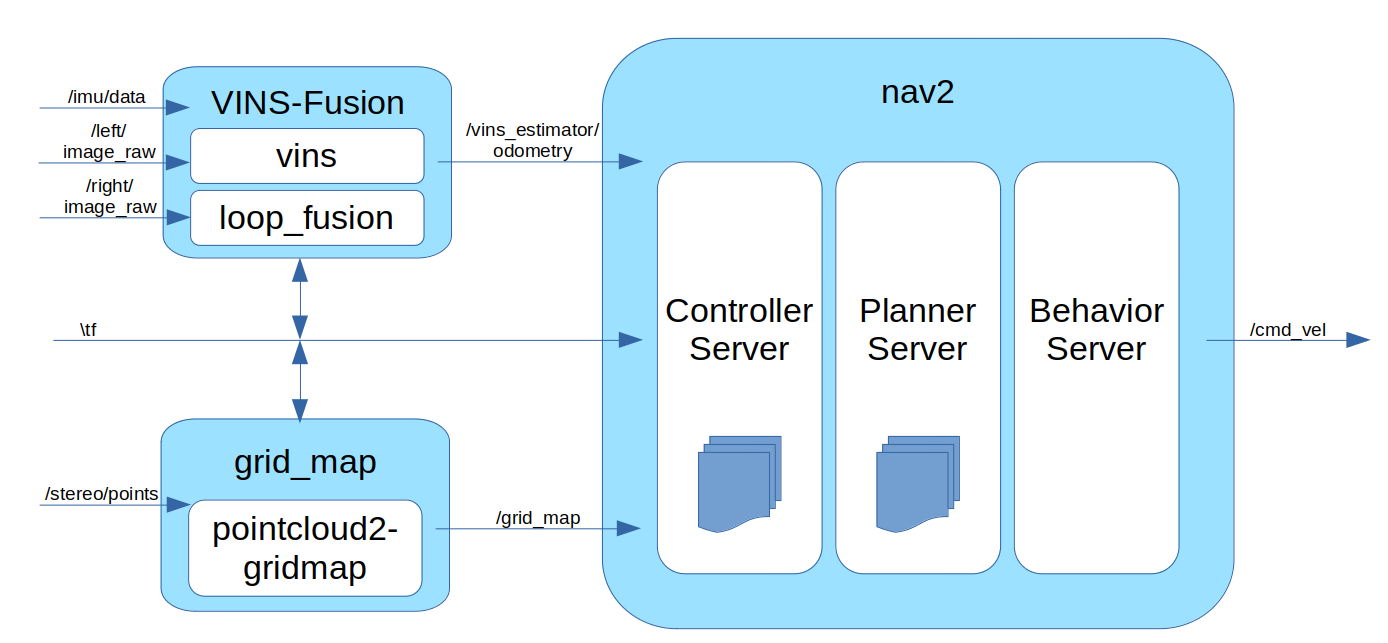
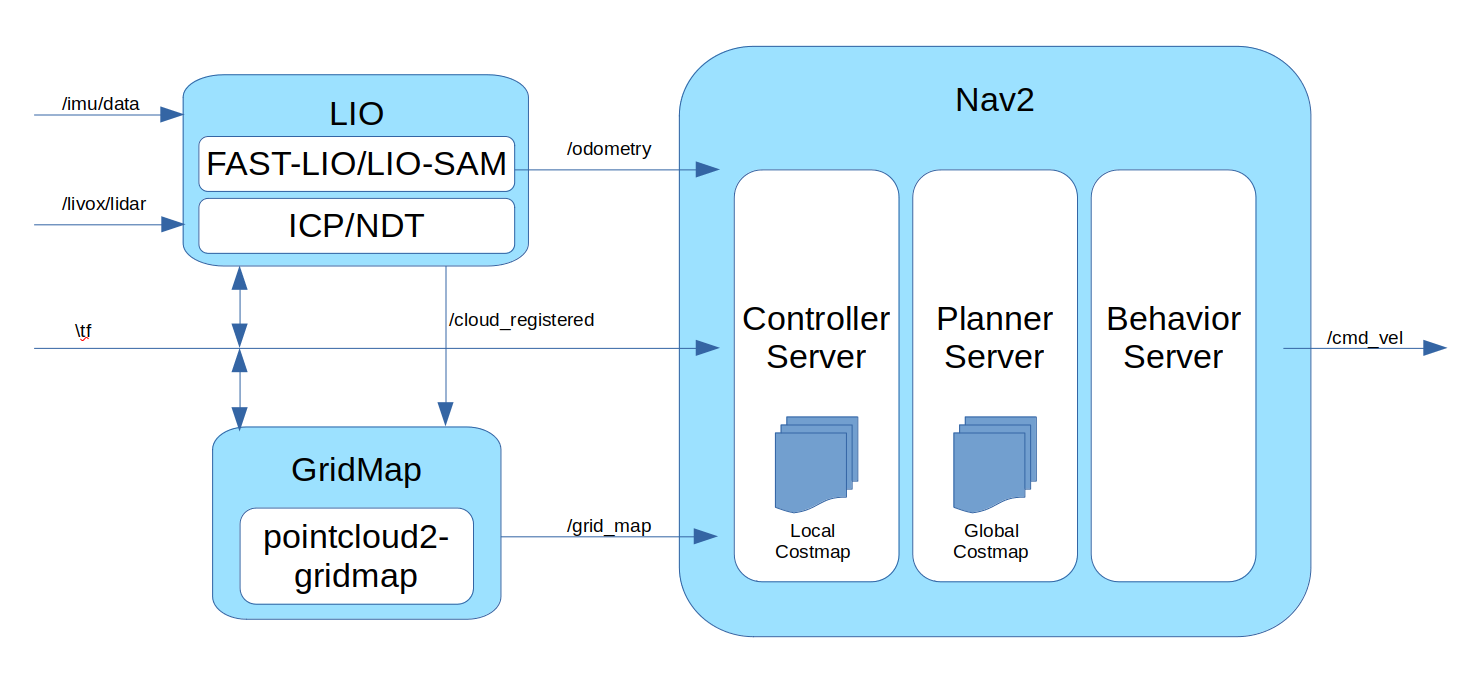
Updated README.

Changed region(s): [[0.031, 0.0311, 0.9914, 0.9953], [0.6196, 0.1244, 0.7125, 0.1866]]

diff --git a/README.md b/README.md
@@ -4,5 +4,6 @@
 ## 作者: 顾昊
 ## 1. 简介
 该模块为哨兵导航模块，负责进行3维点云至2.5D转换,激光里程计(LIO),重定位，路径规划，让哨兵在比赛场地内可以进行自身的定位与路径规划.
+该分支为LIO分支.
 
-该分支为LIO分支，目前仍在测试中，尽请期待.
+<img src="pic/nav_arch.png">
